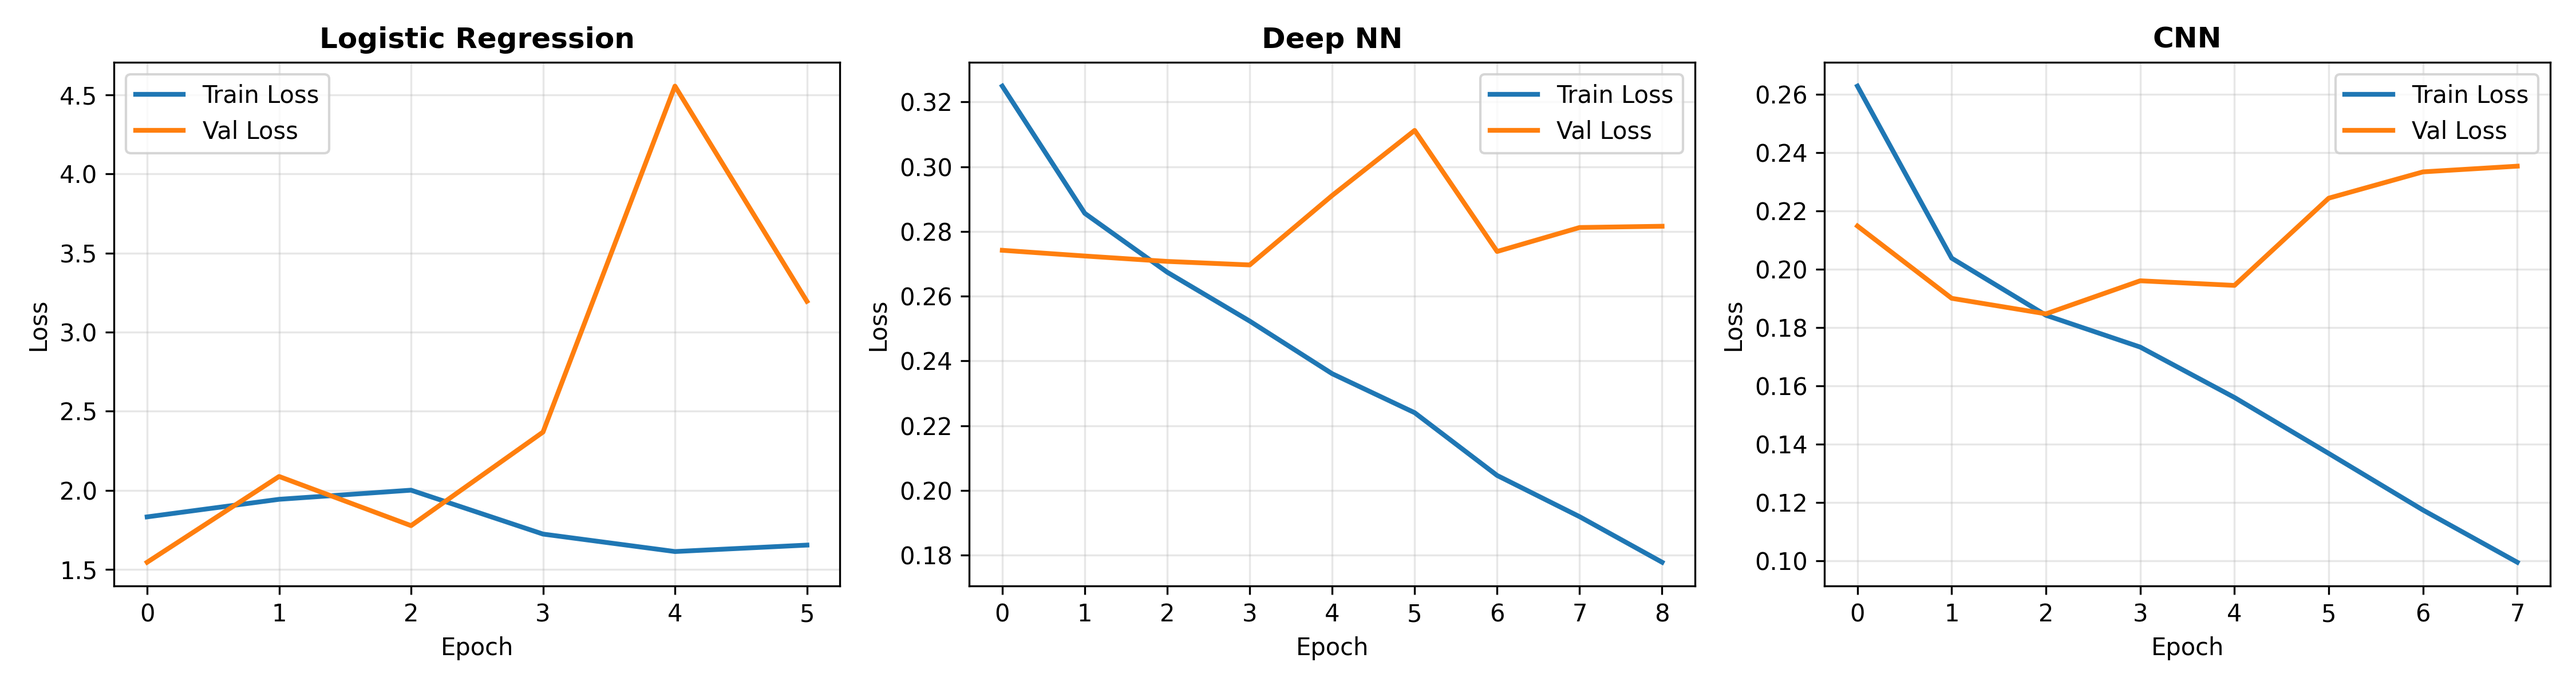
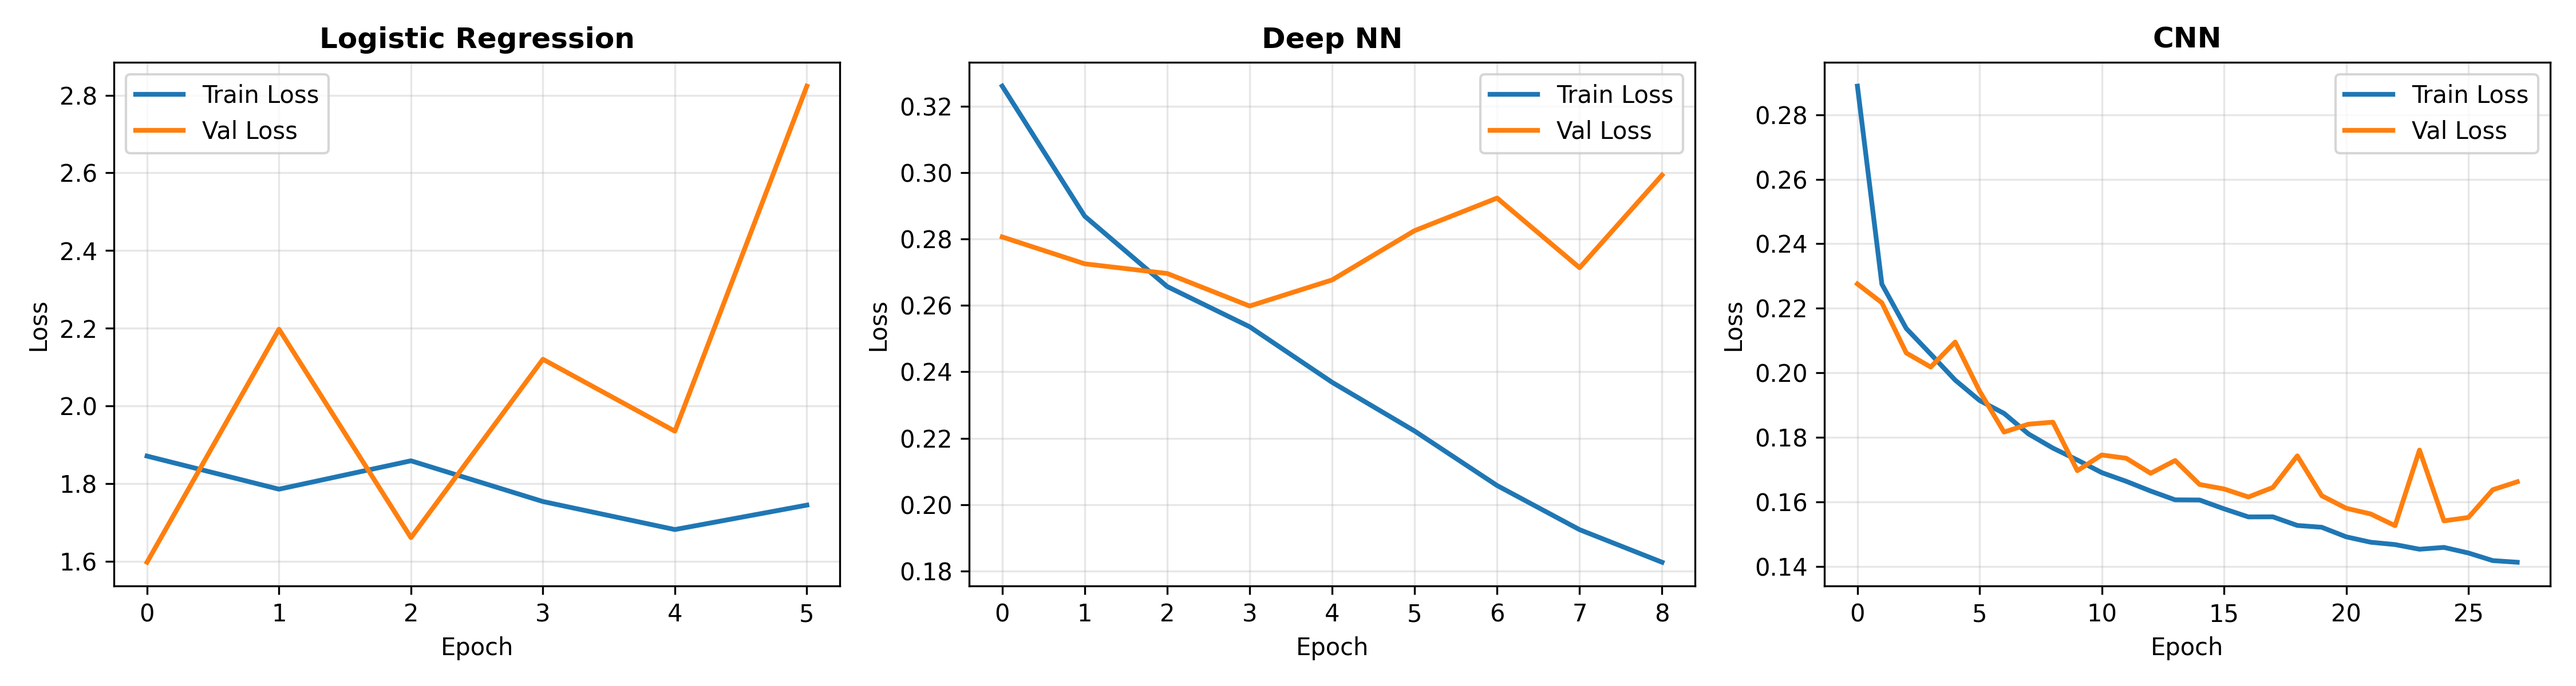
added CAM and a few features, need to look through

diff --git a/model.py b/model.py
@@ -1,5 +1,5 @@
 # ============================================
-# Wildfire Classification Project - Enhanced
+# Wildfire Classification Project - Enhanced with CAM
 # ============================================
 
 import os
@@ -16,19 +16,17 @@ from sklearn.metrics import (
 )
 import seaborn as sns
 import matplotlib.pyplot as plt
+from matplotlib.colors import LinearSegmentedColormap
 
 import torch
 import torch.nn as nn
+import torch.nn.functional as F
 from torch.utils.data import Dataset, DataLoader
 
 
 # ============================================
 # Dataset Setup
 # ============================================
-
-# Shoutout Chat for all the help loading data.
-# I was very confused and it was able to help me get my
-# code working.
 
 base_dir = "archive" 
 
@@ -63,17 +61,23 @@ print(f"Total images: {len(image_paths)}")
 
 X_list = []
 y_list = []
+path_list = []  # Keep track of paths for visualization
 for path, label in zip(image_paths, labels):
     arr = load_and_resize(path)
     if arr is not None:
         X_list.append(arr)
         y_list.append(label)
+        path_list.append(path)
 
 X = np.array(X_list) / 255.0
 y = np.array(y_list)
 
-X_train, X_temp, y_train, y_temp = train_test_split(X, y, test_size=0.40, random_state=42)
-X_val, X_test, y_val, y_test = train_test_split(X_temp, y_temp, test_size=0.50, random_state=42)
+X_train, X_temp, y_train, y_temp, paths_train, paths_temp = train_test_split(
+    X, y, path_list, test_size=0.40, random_state=42
+)
+X_val, X_test, y_val, y_test, paths_val, paths_test = train_test_split(
+    X_temp, y_temp, paths_temp, test_size=0.50, random_state=42
+)
 
 print(f"Training samples: {len(X_train)}")
 print(f"Validation samples: {len(X_val)}")
@@ -92,8 +96,6 @@ print("Data normalized using training set statistics")
 # ============================================
 # PyTorch Dataset
 # ============================================
-# Chat also helped me with splitting the data
-# with tensors.
 
 class WildfireDataset(Dataset):
     def __init__(self, X, y):
@@ -154,10 +156,6 @@ def train_with_validation(model, train_loader, val_loader, epochs=50, lr=1e-3, p
         if (epoch + 1) % 10 == 0:
             print(f"Epoch {epoch+1}, Train Loss: {train_loss:.4f}, Val Loss: {val_loss:.4f}")
         
-
-        # The early stopping was something chat recommended to me
-        # I had it help me implement this portion, and explain why
-        # this would be helpful.
         if val_loss < best_val_loss:
             best_val_loss = val_loss
             patience_counter = 0
@@ -229,11 +227,11 @@ print(f"Test Accuracy: {acc2:.4f}")
 
 
 # ============================================
-# Model 3: CNN
+# Model 3: CNN with CAM Support
 # ============================================
 
 print("\n" + "="*50)
-print("Training CNN")
+print("Training CNN with CAM Support")
 print("="*50)
 
 X_train_cnn = X_train.reshape(-1, 3, 64, 64)
@@ -248,19 +246,35 @@ train_loader_cnn = DataLoader(train_dataset_cnn, batch_size=32, shuffle=True)
 val_loader_cnn = DataLoader(val_dataset_cnn, batch_size=32, shuffle=False)
 test_loader_cnn = DataLoader(test_dataset_cnn, batch_size=32, shuffle=False)
 
-model3 = nn.Sequential(
-    nn.Conv2d(3, 32, kernel_size=3, padding=1),
-    nn.ReLU(),
-    nn.MaxPool2d(2, 2),
-    nn.Conv2d(32, 64, kernel_size=3, padding=1),
-    nn.ReLU(),
-    nn.MaxPool2d(2, 2),
-    nn.Flatten(),
-    nn.Linear(64 * 16 * 16, 128),
-    nn.ReLU(),
-    nn.Dropout(0.3),
-    nn.Linear(128, 1)
-)
+
+class CNNWithCAM(nn.Module):
+    """CNN designed to support Class Activation Mapping"""
+    def __init__(self):
+        super(CNNWithCAM, self).__init__()
+        self.features = nn.Sequential(
+            nn.Conv2d(3, 32, kernel_size=3, padding=1),
+            nn.ReLU(),
+            nn.MaxPool2d(2, 2),
+            nn.Conv2d(32, 64, kernel_size=3, padding=1),
+            nn.ReLU(),
+            nn.MaxPool2d(2, 2),
+        )
+        self.gap = nn.AdaptiveAvgPool2d(1)  # Global Average Pooling for CAM
+        self.fc = nn.Linear(64, 1)
+        
+        # Store feature maps for CAM
+        self.feature_maps = None
+        
+    def forward(self, x):
+        x = self.features(x)
+        self.feature_maps = x  # Save for CAM
+        x = self.gap(x)
+        x = x.view(x.size(0), -1)
+        x = self.fc(x)
+        return x
+
+
+model3 = CNNWithCAM()
 train_losses3, val_losses3 = train_with_validation(model3, train_loader_cnn, val_loader_cnn, epochs=30, lr=1e-3)
 
 preds3, probs3 = get_predictions(model3, test_loader_cnn)
@@ -287,10 +301,190 @@ print(f"Test Accuracy: {acc4:.4f}")
 
 
 # ============================================
+# Class Activation Mapping (CAM)
+# ============================================
+
+def generate_cam(model, image_tensor):
+    """Generate Class Activation Map for a single image"""
+    model.eval()
+    with torch.no_grad():
+        # Forward pass
+        output = model(image_tensor.unsqueeze(0))
+        
+        # Get feature maps (last conv layer output)
+        feature_maps = model.feature_maps[0]  # Shape: [64, 16, 16]
+        
+        # Get weights from the final FC layer
+        weights = model.fc.weight.data[0]  # Shape: [64]
+        
+        # Generate CAM by weighted combination of feature maps
+        cam = torch.zeros(feature_maps.shape[1:])
+        for i, w in enumerate(weights):
+            cam += w * feature_maps[i]
+        
+        # Normalize CAM
+        cam = cam - cam.min()
+        if cam.max() > 0:
+            cam = cam / cam.max()
+        
+        return cam.cpu().numpy()
+
+
+def visualize_cam_overlay(original_image, cam, alpha=0.5):
+    """Create overlay of CAM on original image"""
+    # Resize CAM to match original image
+    cam_resized = np.array(Image.fromarray(cam).resize((64, 64), Image.BILINEAR))
+    
+    # Create heatmap colormap (blue -> green -> yellow -> red)
+    cmap = plt.cm.jet
+    cam_colored = cmap(cam_resized)[:, :, :3]  # Remove alpha channel
+    
+    # Overlay on original
+    overlay = (1 - alpha) * original_image + alpha * cam_colored
+    overlay = np.clip(overlay, 0, 1)
+    
+    return overlay, cam_colored
+
+
+def plot_cam_examples(model, X_test_cnn, y_test, paths_test, n_samples=8):
+    """Plot CAM visualizations for sample images"""
+    fig, axes = plt.subplots(4, n_samples, figsize=(n_samples*3, 12))
+    
+    # Select mix of correct and incorrect predictions
+    model.eval()
+    with torch.no_grad():
+        test_probs = torch.sigmoid(model(torch.FloatTensor(X_test_cnn))).numpy().flatten()
+    test_preds = (test_probs >= 0.5).astype(int)
+    
+    # Get some correct wildfire, correct no-wildfire, and some misclassifications
+    correct_fire = np.where((y_test == 1) & (test_preds == 1))[0]
+    correct_nofire = np.where((y_test == 0) & (test_preds == 0))[0]
+    
+    samples = []
+    samples.extend(np.random.choice(correct_fire, min(4, len(correct_fire)), replace=False))
+    samples.extend(np.random.choice(correct_nofire, min(4, len(correct_nofire)), replace=False))
+    
+    for col, idx in enumerate(samples):
+        # Original image
+        original = X_test_cnn[idx].transpose(1, 2, 0)
+        original = (original - original.min()) / (original.max() - original.min())
+        
+        # Generate CAM
+        image_tensor = torch.FloatTensor(X_test_cnn[idx])
+        cam = generate_cam(model, image_tensor)
+        
+        # Create overlay
+        overlay, cam_colored = visualize_cam_overlay(original, cam, alpha=0.4)
+        
+        # Plot original
+        axes[0, col].imshow(original)
+        axes[0, col].set_title(f"Original\nTrue: {'Fire' if y_test[idx] else 'No Fire'}", 
+                               fontsize=9, fontweight='bold')
+        axes[0, col].axis('off')
+        
+        # Plot CAM heatmap
+        axes[1, col].imshow(cam, cmap='jet')
+        axes[1, col].set_title(f"CAM Heatmap\nPred: {test_probs[idx]:.2f}", 
+                               fontsize=9, fontweight='bold')
+        axes[1, col].axis('off')
+        
+        # Plot overlay
+        axes[2, col].imshow(overlay)
+        axes[2, col].set_title("CAM Overlay", fontsize=9, fontweight='bold')
+        axes[2, col].axis('off')
+        
+        # Plot RGB channels separately
+        rgb_composite = np.concatenate([
+            np.expand_dims(original[:, :, 0], axis=1),
+            np.expand_dims(original[:, :, 1], axis=1),
+            np.expand_dims(original[:, :, 2], axis=1)
+        ], axis=1)
+        rgb_composite = rgb_composite.reshape(64, -1)
+        axes[3, col].imshow(rgb_composite, cmap='gray')
+        axes[3, col].set_title("R | G | B Channels", fontsize=9, fontweight='bold')
+        axes[3, col].axis('off')
+    
+    plt.suptitle("Class Activation Mapping (CAM) - Wildfire Risk Visualization", 
+                 fontsize=14, fontweight='bold', y=0.995)
+    plt.tight_layout()
+    plt.savefig('cam_visualization.png', dpi=300, bbox_inches='tight')
+    plt.show()
+    print("\n✓ CAM visualization saved to 'cam_visualization.png'")
+
+
+# ============================================
+# Feature Channel Visualization
+# ============================================
+
+def plot_feature_channels(X_test_cnn, y_test, n_samples=6):
+    """Visualize different feature representations of satellite images"""
+    fig, axes = plt.subplots(n_samples, 7, figsize=(21, n_samples*3))
+    
+    # Select diverse samples
+    fire_samples = np.where(y_test == 1)[0][:n_samples//2]
+    nofire_samples = np.where(y_test == 0)[0][:n_samples//2]
+    samples = np.concatenate([fire_samples, nofire_samples])
+    
+    for row, idx in enumerate(samples):
+        img = X_test_cnn[idx].transpose(1, 2, 0)
+        img = (img - img.min()) / (img.max() - img.min())
+        
+        # Original RGB
+        axes[row, 0].imshow(img)
+        axes[row, 0].set_title("RGB Composite", fontsize=9, fontweight='bold')
+        axes[row, 0].axis('off')
+        
+        # Individual channels
+        axes[row, 1].imshow(img[:, :, 0], cmap='Reds')
+        axes[row, 1].set_title("Red Channel", fontsize=9, fontweight='bold')
+        axes[row, 1].axis('off')
+        
+        axes[row, 2].imshow(img[:, :, 1], cmap='Greens')
+        axes[row, 2].set_title("Green Channel", fontsize=9, fontweight='bold')
+        axes[row, 2].axis('off')
+        
+        axes[row, 3].imshow(img[:, :, 2], cmap='Blues')
+        axes[row, 3].set_title("Blue Channel", fontsize=9, fontweight='bold')
+        axes[row, 3].axis('off')
+        
+        # Computed indices
+        # Normalized Difference (simulated vegetation index)
+        nd = (img[:, :, 1] - img[:, :, 0]) / (img[:, :, 1] + img[:, :, 0] + 1e-8)
+        axes[row, 4].imshow(nd, cmap='RdYlGn')
+        axes[row, 4].set_title("Vegetation Index\n(G-R)/(G+R)", fontsize=9, fontweight='bold')
+        axes[row, 4].axis('off')
+        
+        # Intensity (brightness)
+        intensity = img.mean(axis=2)
+        axes[row, 5].imshow(intensity, cmap='gray')
+        axes[row, 5].set_title("Intensity", fontsize=9, fontweight='bold')
+        axes[row, 5].axis('off')
+        
+        # Edge detection (Sobel-like)
+        from scipy import ndimage
+        edges = ndimage.sobel(intensity)
+        axes[row, 6].imshow(edges, cmap='hot')
+        axes[row, 6].set_title("Edge Detection", fontsize=9, fontweight='bold')
+        axes[row, 6].axis('off')
+        
+        # Add label
+        label_text = "WILDFIRE" if y_test[idx] == 1 else "NO WILDFIRE"
+        color = 'red' if y_test[idx] == 1 else 'green'
+        axes[row, 0].text(2, 8, label_text, color=color, fontsize=8, 
+                         fontweight='bold', bbox=dict(boxstyle='round', 
+                         facecolor='white', alpha=0.8))
+    
+    plt.suptitle("Satellite Image Feature Analysis - Multiple Channel Representations", 
+                 fontsize=14, fontweight='bold')
+    plt.tight_layout()
+    plt.savefig('feature_channels.png', dpi=300, bbox_inches='tight')
+    plt.show()
+    print("✓ Feature channel visualization saved to 'feature_channels.png'")
+
+
+# ============================================
 # Evaluation Functions
 # ============================================
-# I also recieved a lot of help with the evaluation
-# and graphing functions.
 
 def evaluate_model(y_true, y_pred, y_proba, model_name):
     print(f"\n{'='*60}")
@@ -480,20 +674,42 @@ losses_dict = {
 }
 plot_training_curves(losses_dict)
 
-print("\nGenerating visualizations...")
+print("\nGenerating standard visualizations...")
 plot_roc_curves(models_data, y_test)
 plot_precision_recall_curves(models_data, y_test)
 plot_confusion_matrices(results)
 plot_metrics_comparison(results)
 
-print("\n✓ All visualizations saved!")
+# ============================================
+# NEW: Generate CAM and Feature Visualizations
+# ============================================
+
+print("\n" + "="*60)
+print("GENERATING CAM AND FEATURE VISUALIZATIONS")
+print("="*60)
+
+print("\nGenerating Class Activation Maps...")
+plot_cam_examples(model3, X_test_cnn, y_test, paths_test, n_samples=8)
+
+print("\nGenerating Feature Channel Analysis...")
+plot_feature_channels(X_test_cnn, y_test, n_samples=6)
+
+print("\n✓ All visualizations completed and saved!")
+print("\nGenerated files:")
 print("  - training_curves.png")
 print("  - roc_curves.png")
 print("  - pr_curves.png")
 print("  - confusion_matrices.png")
 print("  - metrics_comparison.png")
+print("  - cam_visualization.png  [NEW]")
+print("  - feature_channels.png  [NEW]")
+print("  - model_results.csv")
 
 best_model_idx = np.argmax([r['f1'] for r in results])
-print(f"\n Best Model (by F1-score): {results[best_model_idx]['model']}")
+print(f"\n🏆 Best Model (by F1-score): {results[best_model_idx]['model']}")
 print(f"   F1-Score: {results[best_model_idx]['f1']:.4f}")
 print(f"   ROC-AUC: {results[best_model_idx]['roc_auc']:.4f}")
+
+print("\n" + "="*60)
+print("PROJECT COMPLETE!")
+print("="*60)
